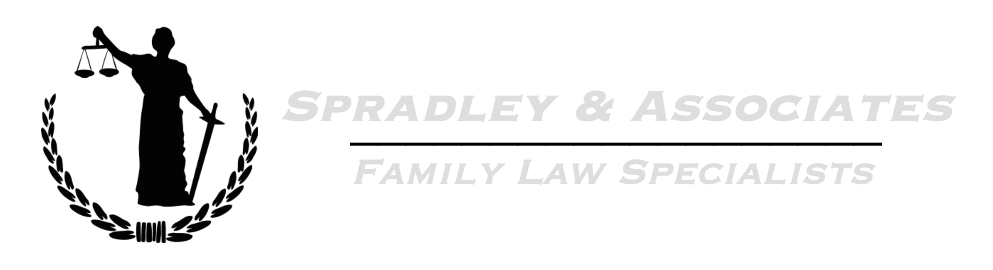
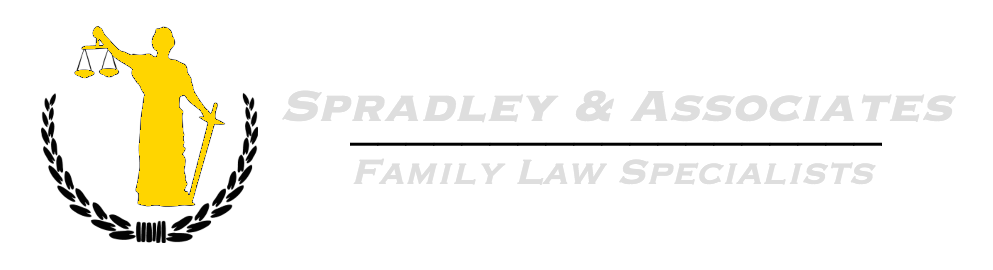
push

Changed region(s): [[0.0624, 0.0889, 0.2185, 0.7704]]

diff --git a/public/index.html b/public/index.html
@@ -320,7 +320,7 @@
 							</div>
 						</div>
 						<div class="col-md-6 col-md-pull-6">
-							<img src="images/sojsoj.png" width="400px">
+							<img src="images/sojsoj3.png" width="400px">
 							<h3 class="title">We are your <span class="text-rotator" data-rotator-animation-effect="fadeIn">Family, Divorce, Alimony, Paternity, Adoption, Visitation, Custody,  Business Formation, Business Agreements, Document Reviews, Employment & Labor</span> Law Attorney</h3>
 							<p>At Spradley & Associates, we understand that your family crisis is different simply because it’s yours. That’s why we try to be a different kind of law firm. We speak candidly, laying everything on the line. You tell us the outcome you want, and we will give you an honest assessment of your case and tell you what it will take to get favorable results. While we cannot guarantee specific results, we do promise that we will not take the path of least resistance simply because it is just “the way these things are always done.” We practice family law according to what must be done at this particular time given your unique circumstances. When you retain our legal team at Spradley & Associates, you get:</p>
 							<ul><li>Energy and conviction in pursuit of real solutions</li><li>Responsive, focused legal services</li><li>Reasonable rates without expensive add-ons</li></ul>
